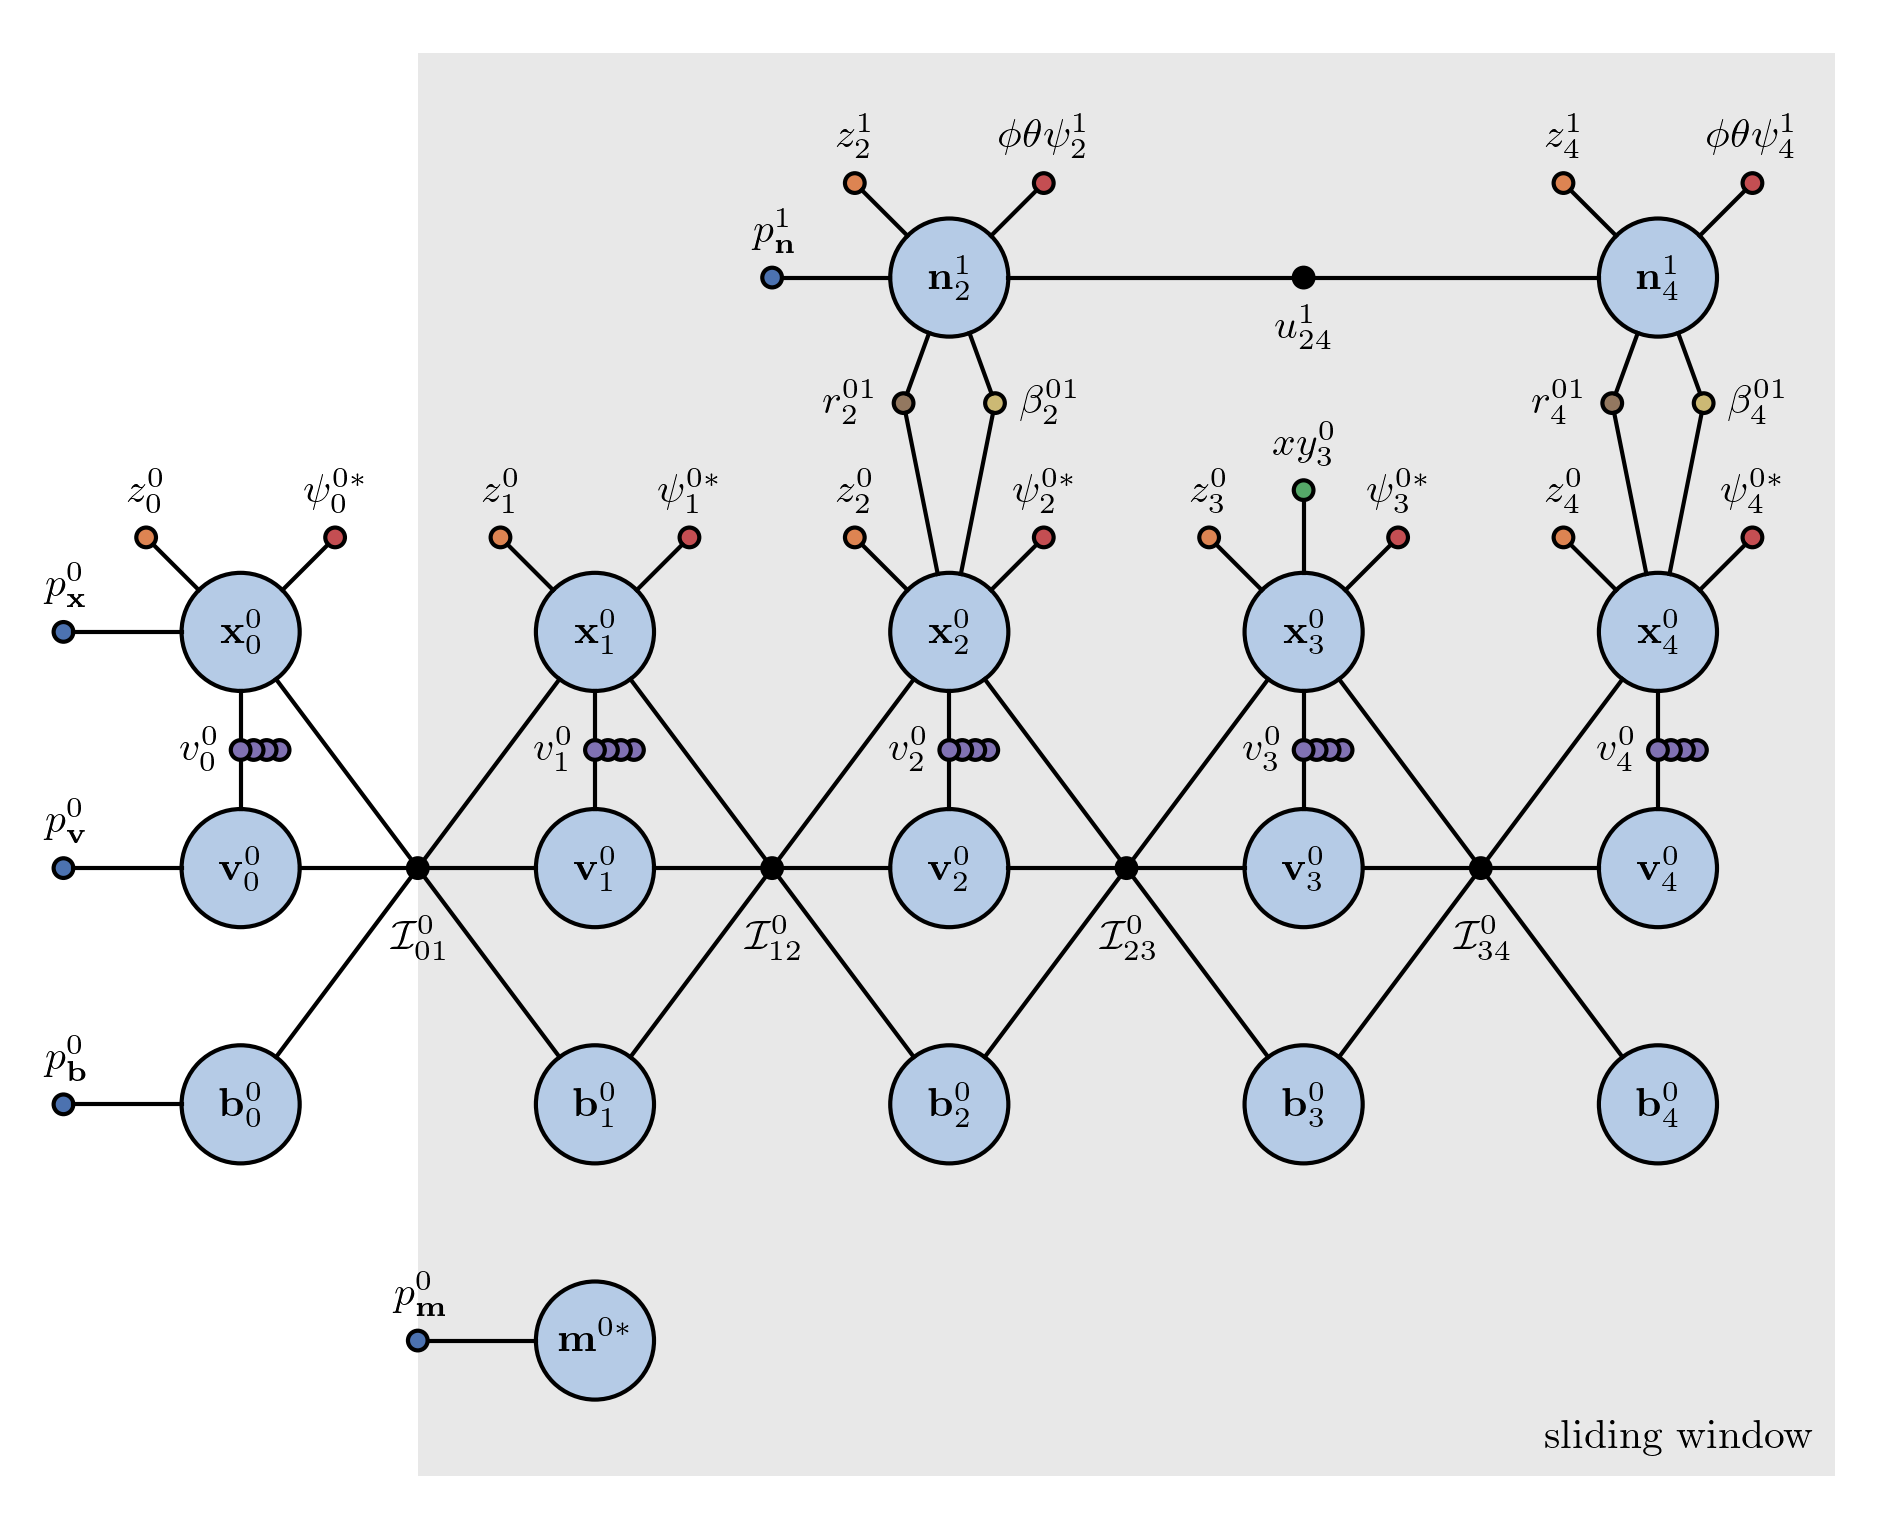
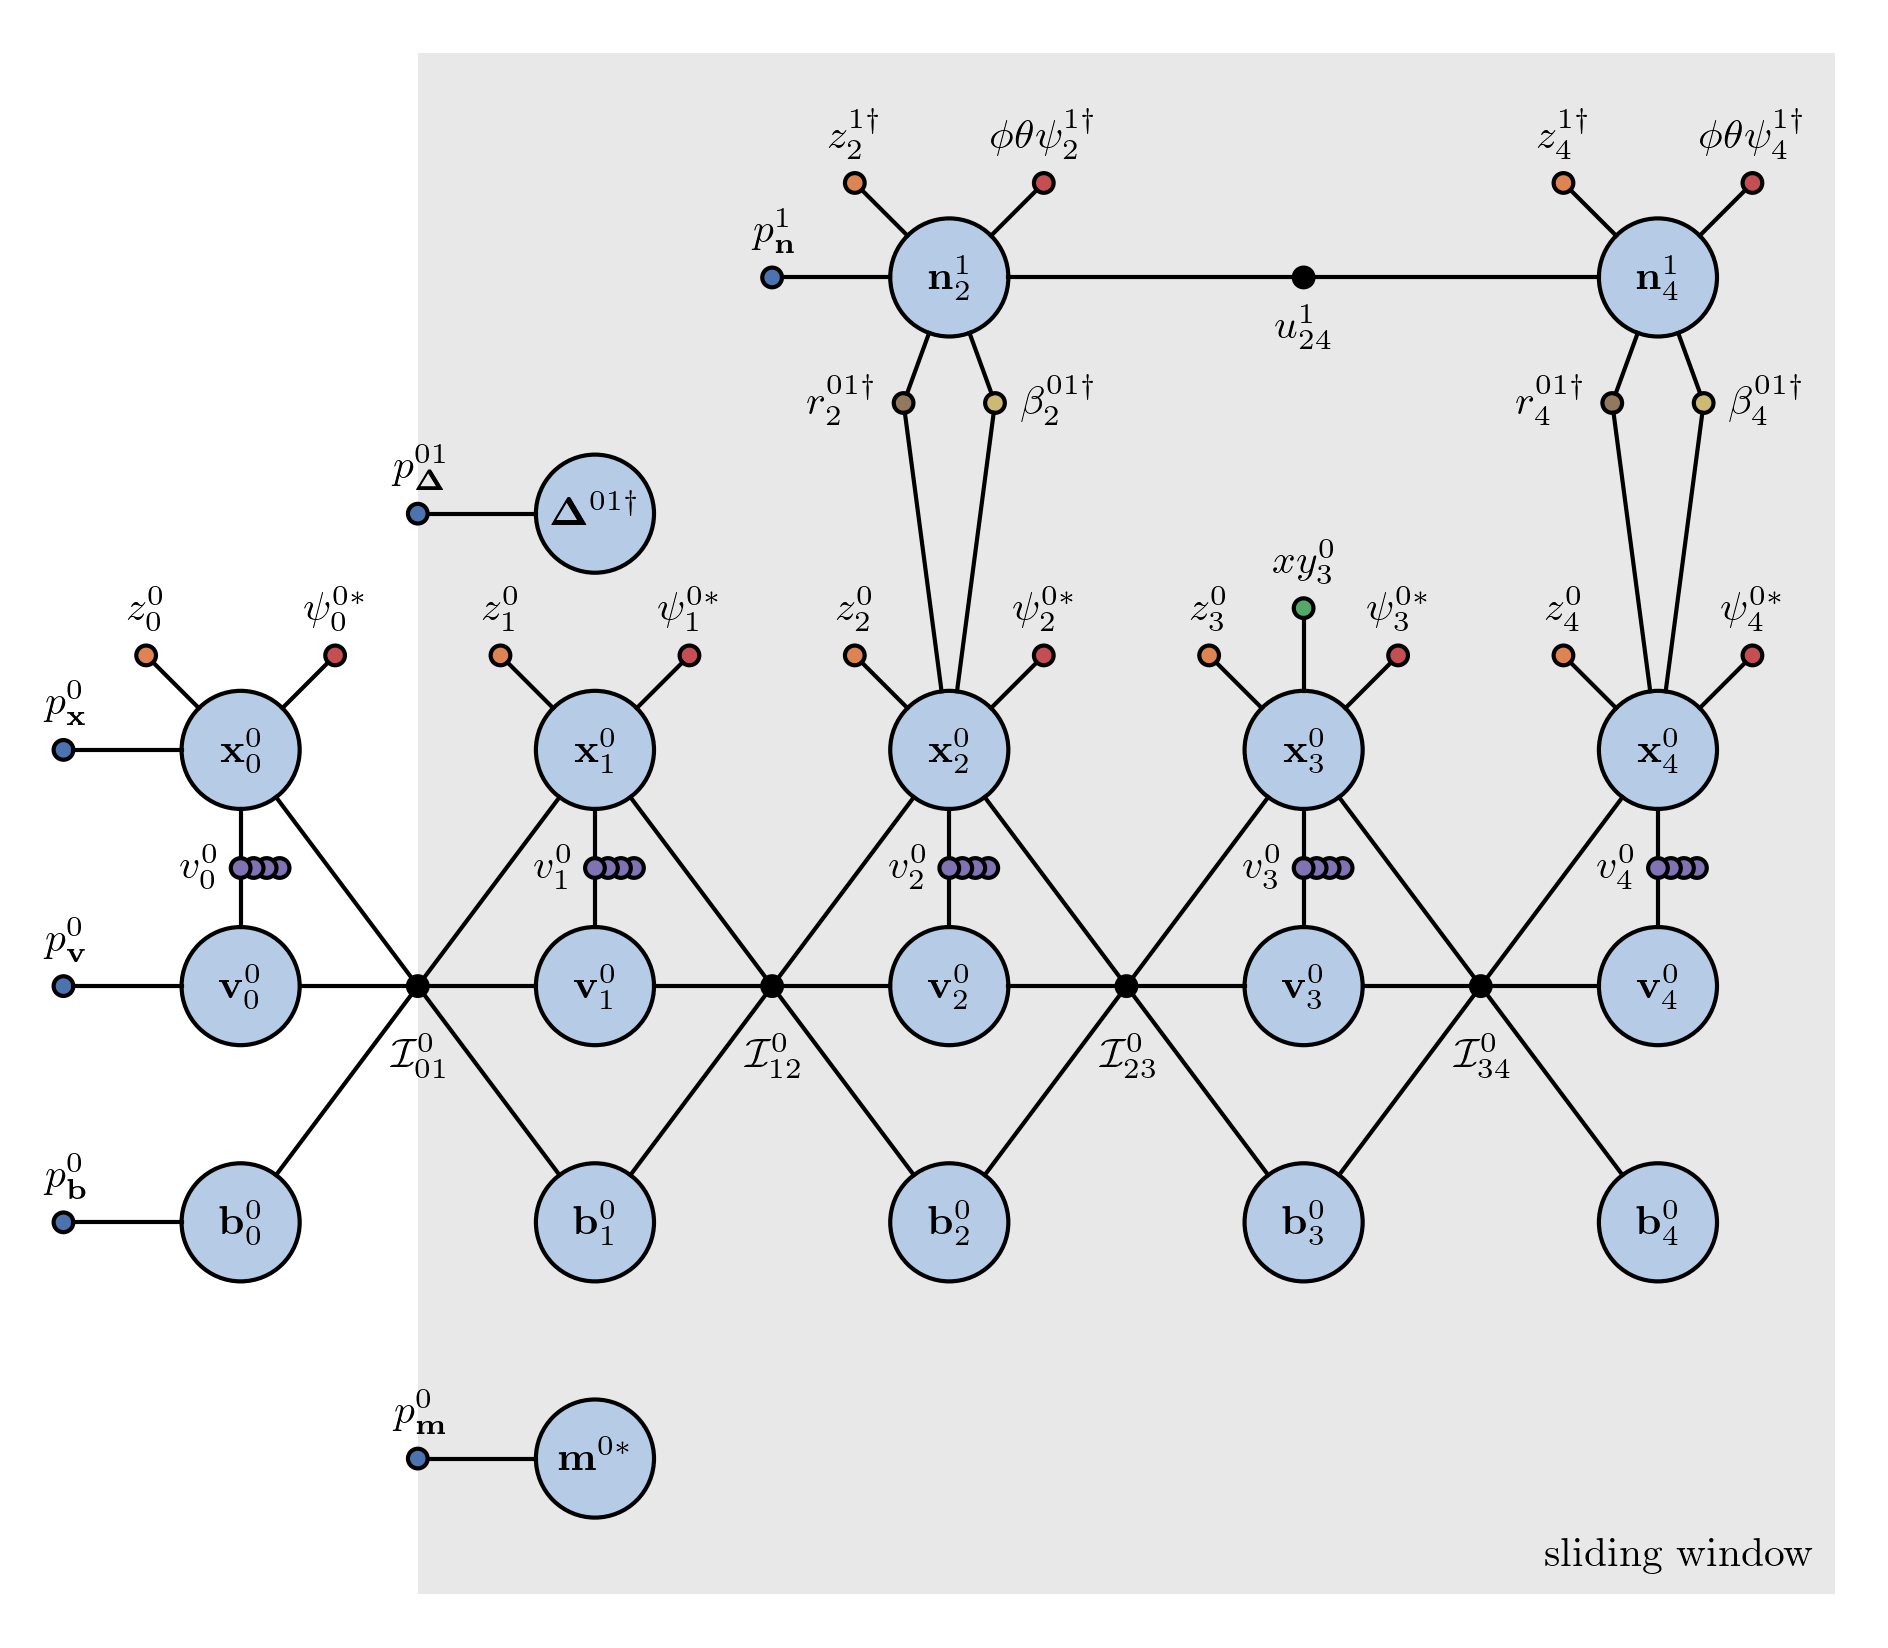
Added multiagent diagram w origin delta

diff --git a/diagrams/generate.py b/diagrams/generate.py
@@ -484,12 +484,29 @@ for i in range(5):
     pgm_multiagent.add_edge(f"x{i}", f"dvl{i}_0")
     pgm_multiagent.add_edge(f"v{i}", f"dvl{i}_0")
 
-# Second agent factor graph
+# Origin delta
+delta_row = 4.0
+neighbor_row = delta_row + 1.0
+pgm_multiagent.add_node(
+    "pdelta",
+    "$p^{01}_\\mathbf{\\Delta}$",
+    mag_x - prior_dist,
+    delta_row,
+    fixed=True,
+    offset=[0, 3],
+    plot_params=style_prior,
+)
+pgm_multiagent.add_node(
+    "delta", "$\\mathbf{\\Delta}^{01\\dagger}$", mag_x, delta_row, plot_params=style_var
+)
+pgm_multiagent.add_edge("pdelta", "delta")
+
+# Neighbor agent factor graph
 pgm_multiagent.add_node(
     "px1",
     "$p^1_\\mathbf{n}$",
     (start_x + (2 * col_spacing)) - prior_dist,
-    4.5,
+    neighbor_row,
     fixed=True,
     offset=[0, 3],
     plot_params=style_prior,
@@ -498,7 +515,11 @@ pgm_multiagent.add_node(
 for i in [2, 4]:
     col_x = start_x + (i * col_spacing)
     pgm_multiagent.add_node(
-        f"x1_{i}", f"$\\mathbf{{n}}^1_{{{i}}}$", col_x, 4.5, plot_params=style_var
+        f"x1_{i}",
+        f"$\\mathbf{{n}}^1_{{{i}}}$",
+        col_x,
+        neighbor_row,
+        plot_params=style_var,
     )
 
 pgm_multiagent.add_edge("px1", "x1_2")
@@ -508,9 +529,9 @@ for i in [2, 4]:
 
     pgm_multiagent.add_node(
         f"depth1_{i}",
-        f"$z^1_{i}$",
+        f"$z^{{1\\dagger}}_{i}$",
         col_x - 0.4,
-        4.9,
+        neighbor_row + 0.4,
         fixed=True,
         plot_params=style_factor_depth,
         offset=[0, 3],
@@ -519,9 +540,9 @@ for i in [2, 4]:
 
     pgm_multiagent.add_node(
         f"heading1_{i}",
-        f"$\\phi\\theta\\psi^1_{i}$",
+        f"$\\phi\\theta\\psi^{{1\\dagger}}_{i}$",
         col_x + 0.4,
-        4.9,
+        neighbor_row + 0.4,
         fixed=True,
         plot_params=style_factor_heading,
         offset=[0, 3],
@@ -534,7 +555,7 @@ for a, b in [(2, 4)]:
         f"odom1_{a}{b}",
         f"$u^1_{{{a}{b}}}$",
         mid_x,
-        4.5,
+        neighbor_row,
         fixed=True,
         offset=[0, -20],
         plot_params=style_factor_imu,
@@ -552,11 +573,11 @@ for i in [2, 4]:
 
     pgm_multiagent.add_node(
         f"range{i}",
-        f"$r^{{01}}_{{{i}}}$",
+        f"$r^{{01\\dagger}}_{{{i}}}$",
         col_x - inter_dx,
-        4.5 - inter_dy,
+        neighbor_row - inter_dy,
         fixed=True,
-        offset=[-13, -8],
+        offset=[-15, -8],
         plot_params=style_factor_range,
     )
     pgm_multiagent.add_edge(f"x{i}", f"range{i}")
@@ -564,18 +585,18 @@ for i in [2, 4]:
 
     pgm_multiagent.add_node(
         f"bearing{i}",
-        f"$\\beta^{{01}}_{{{i}}}$",
+        f"$\\beta^{{01\\dagger}}_{{{i}}}$",
         col_x + inter_dx,
-        4.5 - inter_dy,
+        neighbor_row - inter_dy,
         fixed=True,
-        offset=[13, -8],
+        offset=[15, -8],
         plot_params=style_factor_bearing,
     )
     pgm_multiagent.add_edge(f"x{i}", f"bearing{i}")
     pgm_multiagent.add_edge(f"bearing{i}", f"x1_{i}")
 
 # Shade the sliding window
-win_top_multiagent = 4.9 + win_pad - 0.2
+win_top_multiagent = (neighbor_row + 0.4) + win_pad - 0.2
 pgm_multiagent.add_plate(
     [win_left, win_bottom, win_width, win_top_multiagent - win_bottom],
     label="sliding window",
